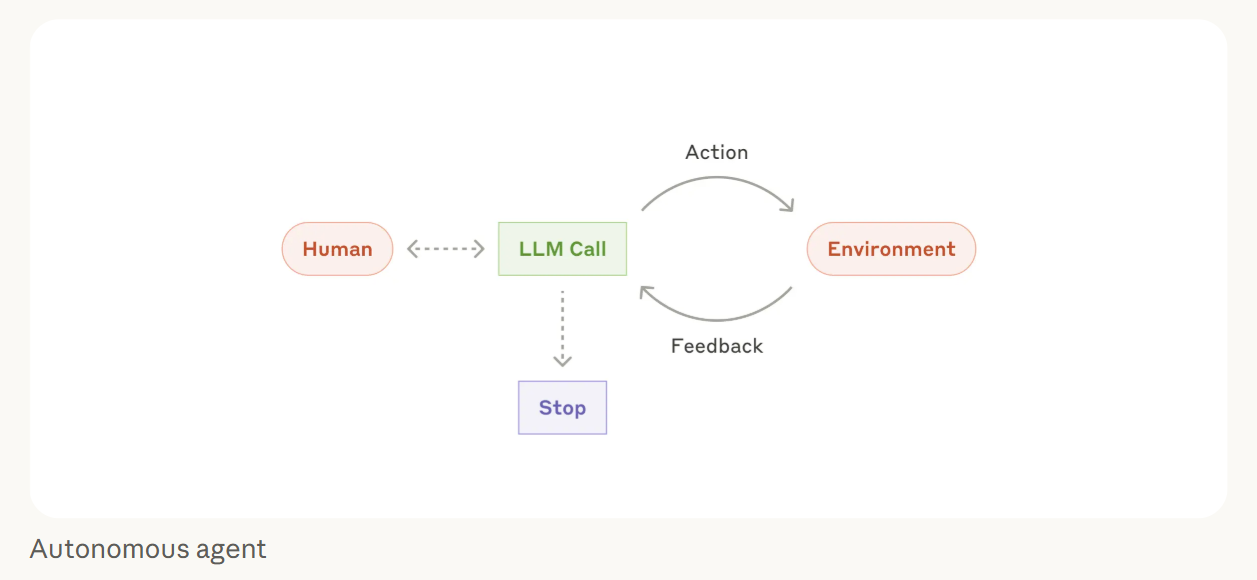
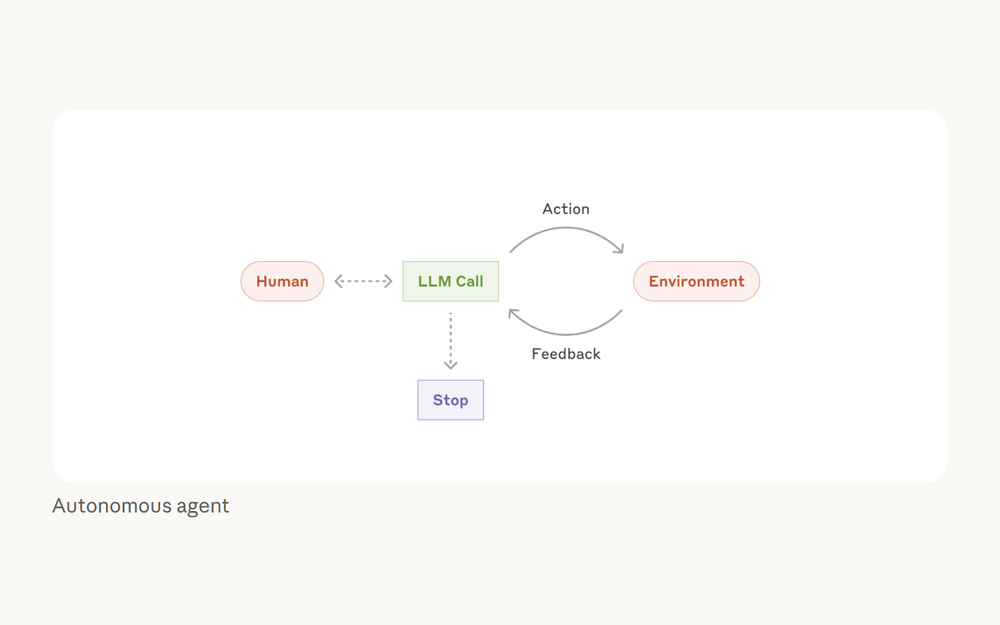
Use one image size across topics 01-04
Pad every image in topics 01-04 onto the same 1000x625 canvas used in
topics 05-06, and display all of them at 700px wide.

Claude-Session: https://claude.ai/code/session_01Spbr7vbSHTunCmWU2oakWx

diff --git a/01-what-is-agentic-ai/README.md b/01-what-is-agentic-ai/README.md
@@ -14,7 +14,7 @@ Agentic AI closes that gap between generating and doing. It plans, executes and 
 ## What an agent is made of
 
 <p align="center">
-  <img src="images/agent-components.png" alt="Components of an AI agent: LLMs, state and control logic, memory, tools and protocols, RAG, evaluations and observability" width="650">
+  <img src="images/agent-components.png" alt="Components of an AI agent: LLMs, state and control logic, memory, tools and protocols, RAG, evaluations and observability" width="700">
 </p>
 
 - **LLM.** The brain. It plans how to break a goal into multiple steps.
@@ -31,7 +31,7 @@ Together, these make the system goal-driven. It takes the action instead of tell
 When you build your first agent, most tutorials point you to no-code and low-code tools like n8n, or frameworks like LangGraph.
 
 <p align="center">
-  <img src="images/no-code-vs-low-code.png" alt="No-code means drag-and-drop and clicks. Low-code means business-friendly expression languages." width="500">
+  <img src="images/no-code-vs-low-code.png" alt="No-code means drag-and-drop and clicks. Low-code means business-friendly expression languages." width="700">
 </p>
 
 Most agents built this way aren't usable at real production scale:
